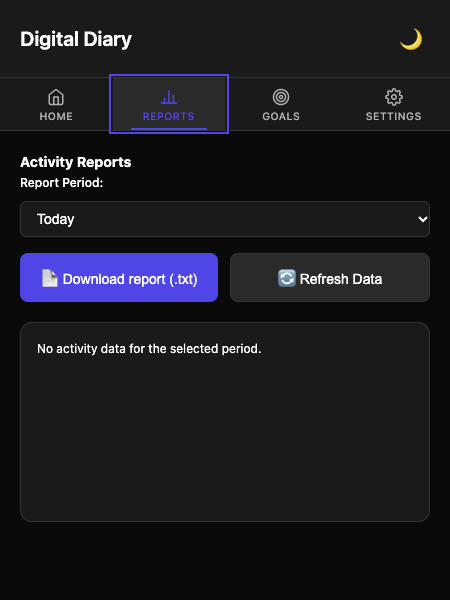
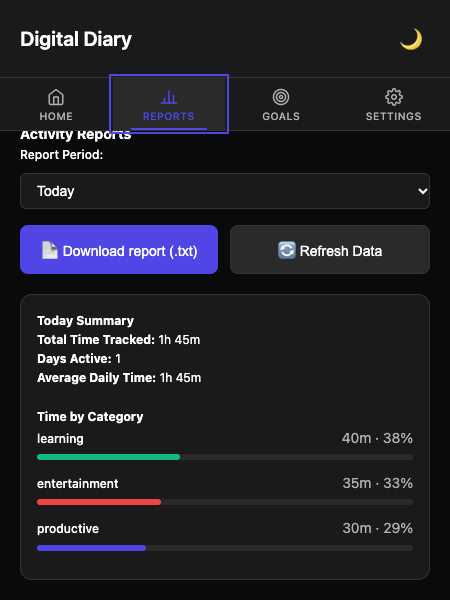
Keep counting while media plays during idle; idle threshold 120 s
Watching a video or listening to a podcast involves no keyboard/mouse input,
so after 60 s chrome.idle reported "idle" and the visit ended: a 20-minute
YouTube video was logged as about 1 minute.

- on "idle", if the tracked tab is audible (tab.audible), keep the session
  running; otherwise end it, backdated by the detection interval
- "locked" always ends the session, even with audio playing
- flush() safety net: idle and the tab no longer audible (after audio had
  kept the session alive) -> end the session at the current time; a missed
  idle event with a silent tab is still backdated
- IDLE_DETECTION_SECONDS 60 -> 120 so slow reading is not cut off; the idle
  interval is still never counted
- tests: idle + audible keeps counting (20-minute video = 20 minutes);
  idle + silent ends; locked + audible still ends (event and flush); audio
  stops while idle -> next flush ends it at the current time. The new tests
  fail on the previous tracker (4 failures) and pass now.
- README "How idle works"; VERIFICATION.md follow-up section
- e2e harness: resume the restarted worker that Puppeteer's DevTools
  connection held paused ("waiting for debugger") for ~15 s; with an active
  user both real-Chrome tracking checks now run and pass (13 s vs 13.2 s
  real after a worker restart). Idle threshold in the harness matches 120 s.

npm test 74/74; npm run test:e2e 43/43, 0 skipped.

diff --git a/test/unit/tracker.test.js b/test/unit/tracker.test.js
@@ -82,13 +82,13 @@ test('window focus loss and regain: away time is not counted, tracking resumes',
   assert.equal(secondsFor(await getLog(chrome), 'youtube.com'), 50, '30 s + 20 s, not 110 s');
 });
 
-test('idle then active: idle time (including the 60 s detection window) is not counted', async () => {
+test('idle then active: idle time (including the 120 s detection window) is not counted', async () => {
   const chrome = setupBrowser();
   await bootWorker(chrome);
-  assert.equal(chrome.idle._detectionInterval, 60);
+  assert.equal(chrome.idle._detectionInterval, 120);
   await chrome._activate(1);
-  advance(100);                          // user stopped touching the computer at t=40 s
-  await chrome._setIdle('idle');         // Chrome reports idle 60 s later
+  advance(160);                          // user stopped touching the computer at t=40 s
+  await chrome._setIdle('idle');         // Chrome reports idle 120 s later
   assert.equal(secondsFor(await getLog(chrome), 'youtube.com'), 40);
   assert.equal(await getSession(chrome), undefined);
   advance(300);
@@ -96,7 +96,79 @@ test('idle then active: idle time (including the 60 s detection window) is not c
   assert.equal((await getSession(chrome))?.tabId, 1, 'new session on return');
   advance(30);
   await chrome._fireAlarm(ALARM_FLUSH);
-  assert.equal(secondsFor(await getLog(chrome), 'youtube.com'), 70, '40 s + 30 s, not 430 s');
+  assert.equal(secondsFor(await getLog(chrome), 'youtube.com'), 70, '40 s + 30 s, not 490 s');
+});
+
+// --- audio: watching a video / listening to a podcast involves no input ---
+
+// Advances `minutes` minutes, firing the flush alarm each minute (as Chrome does).
+async function minutesPass(chrome, minutes) {
+  for (let i = 0; i < minutes; i++) { advance(60); await chrome._fireAlarm(ALARM_FLUSH); }
+}
+
+test('idle + audible tab keeps counting: a 20-minute video is logged as 20 minutes', async () => {
+  const chrome = setupBrowser();
+  await bootWorker(chrome);
+  chrome._tabs.get(1).audible = true;    // YouTube video playing
+  await chrome._activate(1);
+  advance(120);                          // no input since the video started
+  await chrome._setIdle('idle');
+  assert.equal((await getSession(chrome))?.tabId, 1, 'session kept running');
+  await minutesPass(chrome, 18);         // OS stays idle the whole time
+  assert.equal(secondsFor(await getLog(chrome), 'youtube.com'), 20 * 60);
+  assert.equal((await getSession(chrome))?.tabId, 1);
+});
+
+test('idle + tab not audible ends the session, without counting the idle interval', async () => {
+  const chrome = setupBrowser();
+  await bootWorker(chrome);
+  chrome._tabs.get(1).audible = false;
+  await chrome._activate(1);
+  advance(200);                          // last input at t=80 s
+  await chrome._setIdle('idle');
+  assert.equal(await getSession(chrome), undefined);
+  assert.equal(secondsFor(await getLog(chrome), 'youtube.com'), 80);
+  await minutesPass(chrome, 5);
+  assert.equal(secondsFor(await getLog(chrome), 'youtube.com'), 80, 'nothing added while idle');
+});
+
+test('locked + audible still ends the session (event and flush)', async () => {
+  const chrome = setupBrowser();
+  await bootWorker(chrome);
+  chrome._tabs.get(1).audible = true;
+  await chrome._activate(1);
+  advance(30);
+  await chrome._setIdle('locked');
+  assert.equal(await getSession(chrome), undefined);
+  assert.equal(secondsFor(await getLog(chrome), 'youtube.com'), 30);
+
+  // Safety net: if the "locked" event was missed, the flush ends it too.
+  await chrome._focusWindow(1);          // tracking resumes on the audible tab
+  await chrome._setIdle('active');
+  advance(40);
+  chrome.idle.queryState = async () => 'locked';   // lock without the event reaching us
+  advance(20);
+  await chrome._fireAlarm(ALARM_FLUSH);
+  assert.equal(await getSession(chrome), undefined);
+  assert.equal(secondsFor(await getLog(chrome), 'youtube.com'), 30 + 60);
+});
+
+test('audio stops while idle: the next flush ends the session at the current time', async () => {
+  const chrome = setupBrowser();
+  await bootWorker(chrome);
+  chrome._tabs.get(1).audible = true;    // podcast playing
+  await chrome._activate(1);
+  advance(120);
+  await chrome._setIdle('idle');         // kept alive by audio
+  await minutesPass(chrome, 3);
+  chrome._tabs.get(1).audible = false;   // podcast ends; user still away
+  advance(45);
+  await chrome._fireAlarm(ALARM_FLUSH);
+  assert.equal(await getSession(chrome), undefined, 'ended at the flush');
+  // 120 s + 3 min + 45 s, ending at the flush time (not backdated by 120 s)
+  assert.equal(secondsFor(await getLog(chrome), 'youtube.com'), 120 + 180 + 45);
+  await minutesPass(chrome, 5);
+  assert.equal(secondsFor(await getLog(chrome), 'youtube.com'), 345, 'nothing added afterwards');
 });
 
 test('screen locked ends the session immediately', async () => {

diff --git a/lib/tracker.js b/lib/tracker.js
@@ -19,7 +19,10 @@ export const ALARM_FOCUS = 'focusEnd';
 export const FOCUS_NOTIFICATION_ID = 'focus-session-complete';
 // Keys that hold the user's data (as opposed to settings).
 export const DATA_KEYS = ['activityLog', 'summaries', 'categoryOverrides', 'focusSession', 'migrationReport'];
-export const IDLE_DETECTION_SECONDS = 60;
+// No keyboard/mouse input for this long = "idle". 120 s so slow reading is not
+// cut off; the idle time itself is never counted (the end time is backdated by
+// this interval), so a longer interval adds nothing when the user walks away.
+export const IDLE_DETECTION_SECONDS = 120;
 // Alarms fire every minute while Chrome runs. A much larger gap since the last
 // flush means the computer slept or Chrome was suspended; that time is not counted.
 export const SUSPEND_GAP_MS = 3 * 60 * 1000;
@@ -139,15 +142,37 @@ export function createTracker(chrome) {
     await startSession(tab);
   }
 
+  // Is the tracked tab playing sound (video, podcast, music)? Playing media
+  // involves no keyboard/mouse input, so "idle" alone must not end the visit.
+  async function isAudible(session) {
+    const tab = await chrome.tabs.get(session.tabId).catch(() => null);
+    return !!(tab && tab.audible);
+  }
+
   async function flush() {
-    const session = await getSession();
+    let session = await getSession();
     if (!session) return resumeIfNeeded();
     const now = Date.now();
     const state = await chrome.idle.queryState(IDLE_DETECTION_SECONDS);
-    if (state !== 'active') {
-      // Missed idle event safety net.
-      await endSession(state === 'idle' ? now - IDLE_DETECTION_SECONDS * 1000 : now);
+    if (state === 'locked') {
+      await endSession(now);
       return;
+    }
+    if (state === 'idle') {
+      if (await isAudible(session)) {
+        session = { ...session, audibleWhileIdle: true };      // keep counting
+      } else if (session.audibleWhileIdle) {
+        // Audio was keeping an idle session alive and has stopped since the
+        // last flush: end it now.
+        await endSession(now);
+        return;
+      } else {
+        // Missed "idle" event safety net: the idle interval is not counted.
+        await endSession(now - IDLE_DETECTION_SECONDS * 1000);
+        return;
+      }
+    } else if (session.audibleWhileIdle) {
+      session = { ...session, audibleWhileIdle: false };       // user is back
     }
     if (now - (session.lastSeen ?? session.startTime) > SUSPEND_GAP_MS) {
       // Computer slept / Chrome suspended (see endSession), then start fresh.
@@ -329,8 +354,14 @@ export function createTracker(chrome) {
 
     onIdleStateChanged: state => run(async () => {
       if (state === 'idle') {
-        // "idle" means no input for the whole detection interval: don't count it.
-        await endSession(Date.now() - IDLE_DETECTION_SECONDS * 1000);
+        const session = await getSession();
+        if (session && await isAudible(session)) {
+          // Watching/listening: keep the visit running; flush() re-checks audio.
+          await setSession({ ...session, audibleWhileIdle: true });
+        } else {
+          // "idle" means no input for the whole detection interval: don't count it.
+          await endSession(Date.now() - IDLE_DETECTION_SECONDS * 1000);
+        }
       } else if (state === 'locked') {
         await endSession();
       } else {

diff --git a/test/e2e/run.js b/test/e2e/run.js
@@ -30,11 +30,12 @@ function skip(name, reason) {
 }
 
 // chrome.idle reports the operating system's input idleness. On an unattended
-// machine (no keyboard/mouse input for 60 s) Chrome correctly reports "idle" and
+// machine (no keyboard/mouse input for 120 s) Chrome correctly reports "idle" and
 // the extension correctly stops counting time, so tracking checks cannot run.
 // They are reported as SKIP (never as PASS) in that case.
-const IDLE_REASON = 'the OS reports no user input for 60 s (chrome.idle = idle), so the extension correctly does not track; rerun while using the computer';
-const idleState = page => page.evaluate(() => chrome.idle.queryState(60));
+const IDLE_REASON = 'the OS reports no user input for 120 s (chrome.idle = idle), so the extension correctly does not track; rerun while using the computer';
+// Same threshold as IDLE_DETECTION_SECONDS in lib/tracker.js.
+const idleState = page => page.evaluate(() => chrome.idle.queryState(120));
 
 // ---------- local web server for "normal pages" ----------
 function startServer() {
@@ -207,6 +208,15 @@ async function main() {
     await pageD.goto(site('wake.test'), { waitUntil: 'load' });
     await activateTab(popup, site('wake.test'));
     const elapsedC = (Date.now() - tC0) / 1000;   // real time spent on the docs page
+    // Puppeteer's DevTools connection auto-attaches to the restarting worker and
+    // holds it paused ("waiting for debugger") until a client resumes it, which
+    // delayed the event by ~15 s in earlier runs. Resume it right away, so the
+    // worker starts as it would in a normal browser.
+    const restarted = browser.targets().find(t => t.type() === 'service_worker' && t.url().startsWith(`chrome-extension://${extensionId}/`));
+    if (restarted) {
+      const resume = await restarted.createCDPSession().catch(() => null);
+      await resume?.send('Runtime.runIfWaitingForDebugger').catch(() => {});
+    }
     // Wait for the restarted worker to process the activation.
     let entryC = null;
     const tWake = Date.now();

diff --git a/VERIFICATION.md b/VERIFICATION.md
@@ -2,10 +2,12 @@
 
 All evidence below was produced in this session on 2026-11-22 (macOS, Node 22.20.0, Chrome for Testing 157 via Puppeteer 25.18.1).
 
-- `npm test` → `# tests 70  # pass 70  # fail 0`
-- `npm run test:e2e` → `41/41 e2e checks passed, 2 skipped`
+- `npm test` → `# tests 74  # pass 74  # fail 0` (after the idle/audio change below; it was 70/70 before)
+- `npm run test:e2e` → `43/43 e2e checks passed, 0 skipped` (final run, with the OS reporting an active user; earlier unattended runs: 41/41, 2 skipped)
 
-The 2 skipped e2e checks need the OS to report an active user (`chrome.idle`). The machine was unattended, so Chrome correctly reported `idle` and the extension correctly did not track. They are reported as SKIP, never as PASS.
+Two e2e checks need the OS to report an active user (`chrome.idle`, 120 s threshold); on an unattended machine they print SKIP, never PASS. In the final run the user was active and both ran and passed: `tracking: first visit logged — logged 6s, real ≈6.1s` and `worker stopped mid-session: visit still logged within ±5s — logged 13s, real ≈13.2s (worker wake-up took ≈0.3s)`.
+
+While getting that check to run, I found a harness artifact: Puppeteer's DevTools connection held the restarted worker paused ("waiting for debugger") for ~15 s, so the visit looked 15 s too long. The harness now resumes the worker immediately (`Runtime.runIfWaitingForDebugger`); with that, the worker started 5 ms after the tab activation. The extension code was not changed for this.
 
 **Status key**
 - **Verified:** a test or command in this session proves it.
@@ -82,10 +84,10 @@ A separate reviewer agent was given only the original requirements and checked t
 | P1: `node --test` + hand-written chrome mock (storage.local/session, alarms, idle, tabs, windows, runtime) | Verified | `test/helpers/chrome-mock.js`; unit: mock storage round-trips …; killing the worker drops listeners … |
 | P1: pure logic in a module used by extension and tests | Verified | `lib/core.js` imported by `lib/tracker.js`, `script.js`, `options.js` and `test/unit/*` |
 | P1: `npm run test:e2e` with Puppeteer and worker termination per Chrome's guide | Verified | e2e: service worker was actually stopped; service worker restarted on the next event |
-| P2: active session in `chrome.storage.session` survives worker stop | Verified (unit) / Needs manual check (real Chrome, active user) | unit: worker restart mid-session: logged duration within ±5 s …; worker restart without any alarm …. e2e check SKIPPED (OS idle) |
+| P2: active session in `chrome.storage.session` survives worker stop | Verified | unit: worker restart mid-session: logged duration within ±5 s …; worker restart without any alarm …; e2e: worker stopped mid-session: visit still logged within ±5s (13 s vs 13.2 s real) |
 | P2: minute flush via `chrome.alarms` | Verified | unit: minute flush saves progress so a crash loses at most about a minute |
 | P2: focus-change handler fixed | Verified | unit: window focus loss and regain …; a tab activated while Chrome is in the background is not timed |
-| P2: chrome.idle at 60 s: end on idle/locked, start on active | Verified | unit: idle then active …; screen locked ends the session immediately |
+| P2: chrome.idle (detection interval raised to 120 s by owner request): end on idle unless the tab is audible; always end on locked; start on active | Verified | unit: idle then active: idle time (including the 120 s detection window) is not counted; idle + audible tab keeps counting …; idle + tab not audible ends the session …; locked + audible still ends the session …; audio stops while idle: the next flush ends the session at the current time; screen locked ends the session immediately |
 | P2: single write queue | Verified | unit: two sessions ending at the same moment are both saved (fails with the queue removed); simultaneous events … |
 | P2: retention daily via alarms | Verified | unit: daily retention alarm … |
 | P3: hostname normalization + full host before parent domains | Verified | unit: hostname normalization …; categories: www/m variants, subdomain fallback, most specific match first |
@@ -100,19 +102,33 @@ A separate reviewer agent was given only the original requirements and checked t
 | P6: placeholder links | Verified | Real repository URL used (given by owner); e2e: options: About links point to the real repository |
 | P6: icons 16/32/48/128 PNG | Verified | `file icons/*.png` → PNG RGBA at each size; used in manifest and notification |
 | P6: README rewritten with required sections | Verified | `README.md` |
-| P7: independent review; fixes; tests rerun | Verified | Section above; final runs 70/70 and 41/41 (+2 skipped) |
+| P7: independent review; fixes; tests rerun | Verified | Section above; runs after the review: 70/70 and 41/41 (+2 skipped); final runs after the idle change: 74/74 and 43/43 (0 skipped) |
 
 ### Success metrics
 
 | # | Metric | Status | Evidence |
 |---|---|---|---|
-| 1 | `npm test` passes, incl. all listed scenarios | Verified | 70/70. Restart ±5 s (52, 53), focus loss/regain (54), idle/active (55), simultaneous ends (57), normalization (1, 2), overrides (3), en-US/en-GB/en-IN migration (27–29), streak gap (46, 47), retention (70); numbers refer to the test list in this session's output |
+| 1 | `npm test` passes, incl. all listed scenarios | Verified | 74/74 (70/70 before the idle/audio change). Restart ±5 s (52, 53), focus loss/regain (54), idle/active (55), simultaneous ends (57), normalization (1, 2), overrides (3), en-US/en-GB/en-IN migration (27–29), streak gap (46, 47), retention (70); numbers refer to the test list in this session's output |
 | 2 | e2e: zero errors in worker and popup consoles; zero requests on a normal page with defaults; screenshots | Verified | e2e: service worker: zero errors; popup: zero console errors; positive control …; normal pages: zero network requests from the service worker; screenshots in `docs/screenshots/` |
 | 3 | Default settings: no page content read, nothing sent | Verified | unit: default settings: summarizing is refused, no page content is read and nothing is sent; no content scripts; e2e network checks |
 | 4 | No unused permissions; no `<all_urls>` content script | Verified | unit: manifest: …; manifest below |
 | 5 | No innerHTML with stored/fetched data (grep proof) | Verified | grep below |
 | 6 | Every control in the table and working; no dead settings | Verified | `docs/CONTROLS.md` + e2e controls checks; dead settings removed and migrated away |
 | 7 | README matches behavior incl. full list of network requests | Verified | fetch grep below = README table; README updated after the review |
+
+## Follow-up: audio-aware idle (owner request after the PR was opened)
+
+Watching a video or listening to a podcast involves no input, so a 20-minute video was logged as about 1 minute.
+
+| Requirement | Status | Evidence |
+|---|---|---|
+| On "idle", keep the session if the tracked tab is audible | Verified | unit: idle + audible tab keeps counting: a 20-minute video is logged as 20 minutes |
+| "idle" with a silent tab ends the session (idle interval not counted) | Verified | unit: idle + tab not audible ends the session, without counting the idle interval |
+| "locked" always ends the session, even with audio | Verified | unit: locked + audible still ends the session (event and flush) |
+| flush(): idle and no longer audible → end at the current time | Verified | unit: audio stops while idle: the next flush ends the session at the current time |
+| IDLE_DETECTION_SECONDS raised 60 → 120 | Verified | `lib/tracker.js`; unit: idle then active … (120 s detection window); `chrome.idle._detectionInterval === 120` |
+| New tests detect the old behaviour | Verified | run against the previous commit's `lib/tracker.js`: 4 failures; with the change: 0 |
+| Real video/podcast in real Chrome | Needs manual check | `tab.audible` comes from Chrome's audio indicator; the automated runs use a mock |
 
 ## Raw command output
 
@@ -132,7 +148,7 @@ host_permissions: https://api.notion.com/*, https://generativelanguage.googleapi
 
 ## Needs manual check (human)
 
-1. Real tracking in your own browsing: 30+ minutes, alt-tab, 5 minutes away. Automated e2e skipped this because the OS reported no user input.
+1. Real tracking in your own browsing over 30+ minutes: alt-tab, 5 minutes away, and a 10+ minute video watched without touching the computer (it should count fully). The automated e2e covers short visits and a worker restart, not long sessions or real audio.
 2. Real "Summarize this page" with a Gemini key (activeTab is only granted by a real click on the toolbar icon), and refusal on an excluded domain.
 3. Real Notion export to a fresh database whose title column is "Name".
 4. The real focus-session notification appearing after 5 minutes with the popup closed.

diff --git a/README.md b/README.md
@@ -9,7 +9,7 @@ Digital Diary is a Chrome extension (Manifest V3, plain JavaScript, no build ste
 
 ## What it does
 
-- **Tracks time on the active tab** of the focused Chrome window and logs it per site. Time stops counting when you switch away from Chrome, lock the screen, or stop using the computer for 60 seconds.
+- **Tracks time on the active tab** of the focused Chrome window and logs it per site. Time stops counting when you switch away from Chrome, lock the screen, or stop using the computer for 2 minutes, unless the tab is playing sound (a video or podcast keeps counting).
 - **Categorises sites** (learning, productive, entertainment, social media, shopping, misc) from a built-in list. `www.` and `m.` are ignored and subdomains fall back to their parent (`en.wikipedia.org` → `wikipedia.org`). **You can change any site's category** from the popup's Top Sites list; your choice is used everywhere.
 - **Productivity score** (0–100) for today, weighted by time per category.
 - **Streaks**: consecutive days on which your learning/productive time reaches your daily goal (default 30 minutes).
@@ -83,7 +83,7 @@ The links on the options page (Notion integrations, Google AI Studio, this GitHu
 | `tabs` | Read the URL of the active tab to know which site you are on (tracking) |
 | `storage` | Save your activity, summaries and settings locally; keep the running visit in session storage so it survives the service worker being stopped |
 | `alarms` | Minute-by-minute saving of the current visit, daily automatic deletion of old data, and the focus-session timer |
-| `idle` | Stop counting when you are away from the computer (60 s) or the screen is locked |
+| `idle` | Stop counting when you are away from the computer (2 minutes without input, unless the tab is playing sound) or the screen is locked |
 | `notifications` | Tell you when a focus session ends (can be turned off) |
 | `activeTab` + `scripting` | Read the text of **only the current tab, only when you click Summarize** (no access to other sites) |
 | Host `https://generativelanguage.googleapis.com/*` | Send the page text to Gemini when you click Summarize |
@@ -95,8 +95,14 @@ There are no content scripts and no web-accessible resources.
 
 - The service worker (`trackingtabs.js` → `lib/tracker.js`) times the active tab of the focused window. The visit being timed is kept in `chrome.storage.session`, so Chrome stopping the worker after ~30 seconds of inactivity loses nothing.
 - Every minute an alarm writes the elapsed time into the log (the same entry is updated), so a crash loses at most about a minute.
-- Switching tabs, navigating, closing a tab, leaving Chrome, going idle (60 s without input, which is not counted), locking the screen, or adding the site to Excluded Domains ends the visit. Tabs that become active while Chrome is in the background are not timed, and the minute alarm re-checks that the timed tab is still the focused window's active tab. If the computer was asleep (no alarm for over 3 minutes), the sleep time is not counted.
+- Switching tabs, navigating, closing a tab, leaving Chrome, going idle (see below), locking the screen, or adding the site to Excluded Domains ends the visit. Tabs that become active while Chrome is in the background are not timed, and the minute alarm re-checks that the timed tab is still the focused window's active tab. If the computer was asleep (no alarm for over 3 minutes), the sleep time is not counted.
 - All storage writes go through one queue, so events that happen at the same moment cannot overwrite each other.
+
+### How idle works
+- Chrome reports **idle** when there has been no keyboard or mouse input for **120 seconds**. If the tracked tab is not playing sound, the visit ends, and the end time is moved back by those 120 seconds, so time spent away is never counted. (A longer interval just avoids cutting off slow reading; it does not add time when you walk away.)
+- If the tracked tab **is playing sound** (`tab.audible`, e.g. a YouTube video or a podcast), the visit keeps counting while you are idle. The minute alarm re-checks the tab: once the sound stops and you are still idle, the visit ends at that moment.
+- **Locking the screen always ends the visit**, even if sound is playing.
+- When you start using the computer again, tracking resumes on the active tab.
 
 ### Upgrading from version 1.0
 Version 1.0 stored dates as text (e.g. "22/11/2026, 3:45:12 pm"), which broke in non-US locales. On update, the extension converts them to numbers once (US, UK, Indian and other common formats). 1.0 stored the moment a visit *ended*; converted entries store when it *started* (end minus duration), like new entries. Domains are normalized (`www.youtube.com` → `youtube.com`) and the old per-entry `category` field is dropped, because categories are now worked out when displayed (so your category changes apply to old visits too). Any entry whose date cannot be read is **kept** in storage and in exports, not deleted, and the count is logged; such entries are not counted in reports, streaks or statistics, because their day is unknown. Because 1.0 never deleted anything automatically, upgraded profiles start with retention set to **Keep forever**; choose a period in Full Settings if you want automatic deletion. AI summaries are switched off on upgrade, because they now work differently (on click only).
@@ -111,7 +117,7 @@ npm run test:e2e     # loads the unpacked extension in Chrome for Testing
 
 - **Unit tests** (`test/unit/`) cover tracking across service-worker restarts, focus loss and regain, idle and lock, simultaneous session ends, hostname normalization and categories, user overrides, migration of en-US/en-GB/en-IN dates, streaks with gaps, retention, focus sessions, Notion request building, Gemini request building, and privacy guards (no `innerHTML`, `fetch` only in the two API modules, every manifest permission used).
 - **End-to-end** (`test/e2e/run.js`) loads this folder in Chrome. It checks for console errors and network requests, exercises every popup and options control (including downloads), stops the service worker mid-visit, and saves screenshots to `docs/screenshots/`.
-- `chrome.idle` reports the operating system's real input state. If nobody has touched the keyboard or mouse for 60 seconds, the extension correctly stops tracking, so the two e2e checks that need tracking are reported as **SKIP** (never as PASS). Run the e2e suite while using the computer to include them.
+- `chrome.idle` reports the operating system's real input state. If nobody has touched the keyboard or mouse for 120 seconds, the extension correctly stops tracking (the test pages play no sound), so the two e2e checks that need tracking are reported as **SKIP** (never as PASS). Run the e2e suite while using the computer to include them.
 
 Icons are generated by `node scripts/make-icons.js` (no dependencies).
 
@@ -138,7 +144,7 @@ Icons are generated by `node scripts/make-icons.js` (no dependencies).
 - Categories come from a built-in list of 62 sites plus your own changes; everything else is "misc".
 - `chrome.storage.local` holds about 10 MB. Each visit takes roughly 150–300 bytes (the full page URL is stored), so this is on the order of 40,000+ visits. With retention set to "Keep forever" (the default after upgrading from 1.0) a very heavy user could eventually fill it; writes would then fail (logged in the service worker console) and tracking would stop saving. Choose a retention period to avoid this.
 - A visit is counted on the day it started, so a visit across midnight counts entirely toward the first day.
-- Idle detection uses keyboard/mouse input: watching a long video without touching anything stops counting after 60 seconds.
+- Idle detection uses keyboard/mouse input plus whether the tab is playing sound: a muted video watched without touching anything stops counting after 2 minutes; a silent page read for more than 2 minutes without scrolling is cut off (the idle 2 minutes are not counted).
 - Summaries only use visible page text (no video transcripts), up to 3,000 characters.
 - Only the focused window's active tab is tracked; background audio or a second monitor's window is not.
 - "Summarize this page" and Notion export need a real API key / database, so they are not covered by the automated tests beyond request building and refusal paths.
